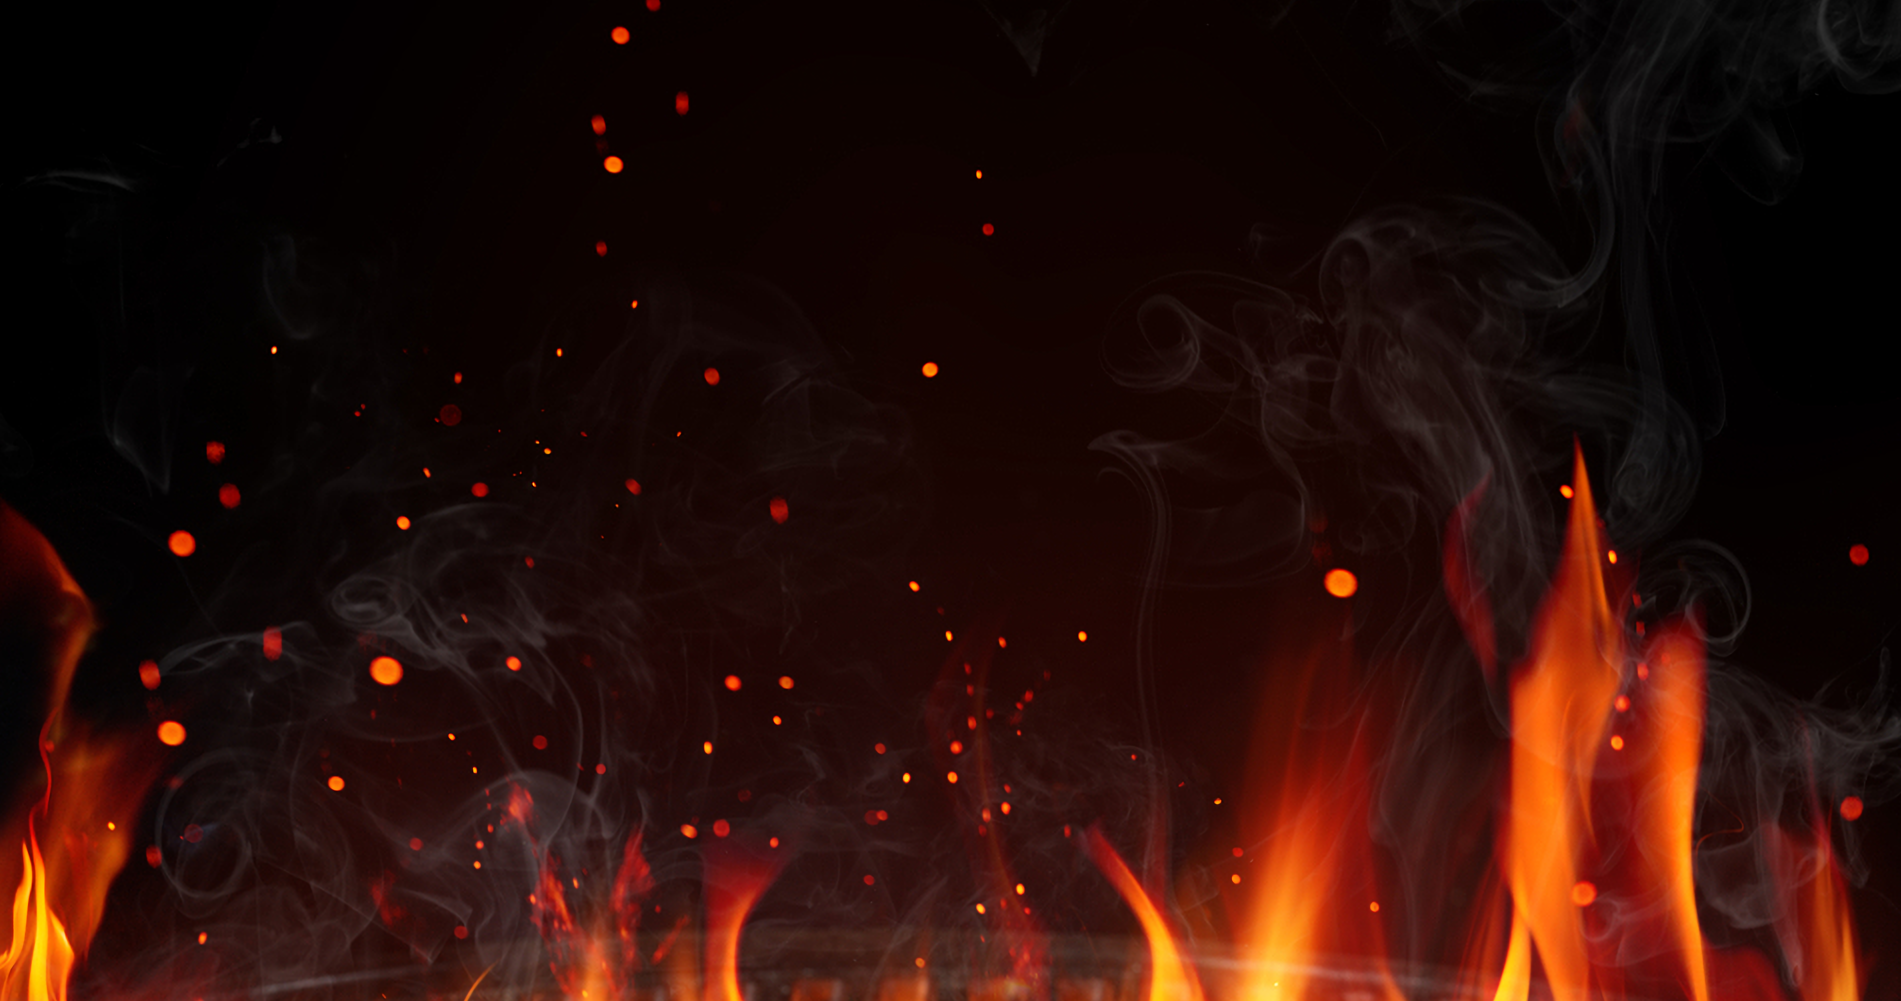
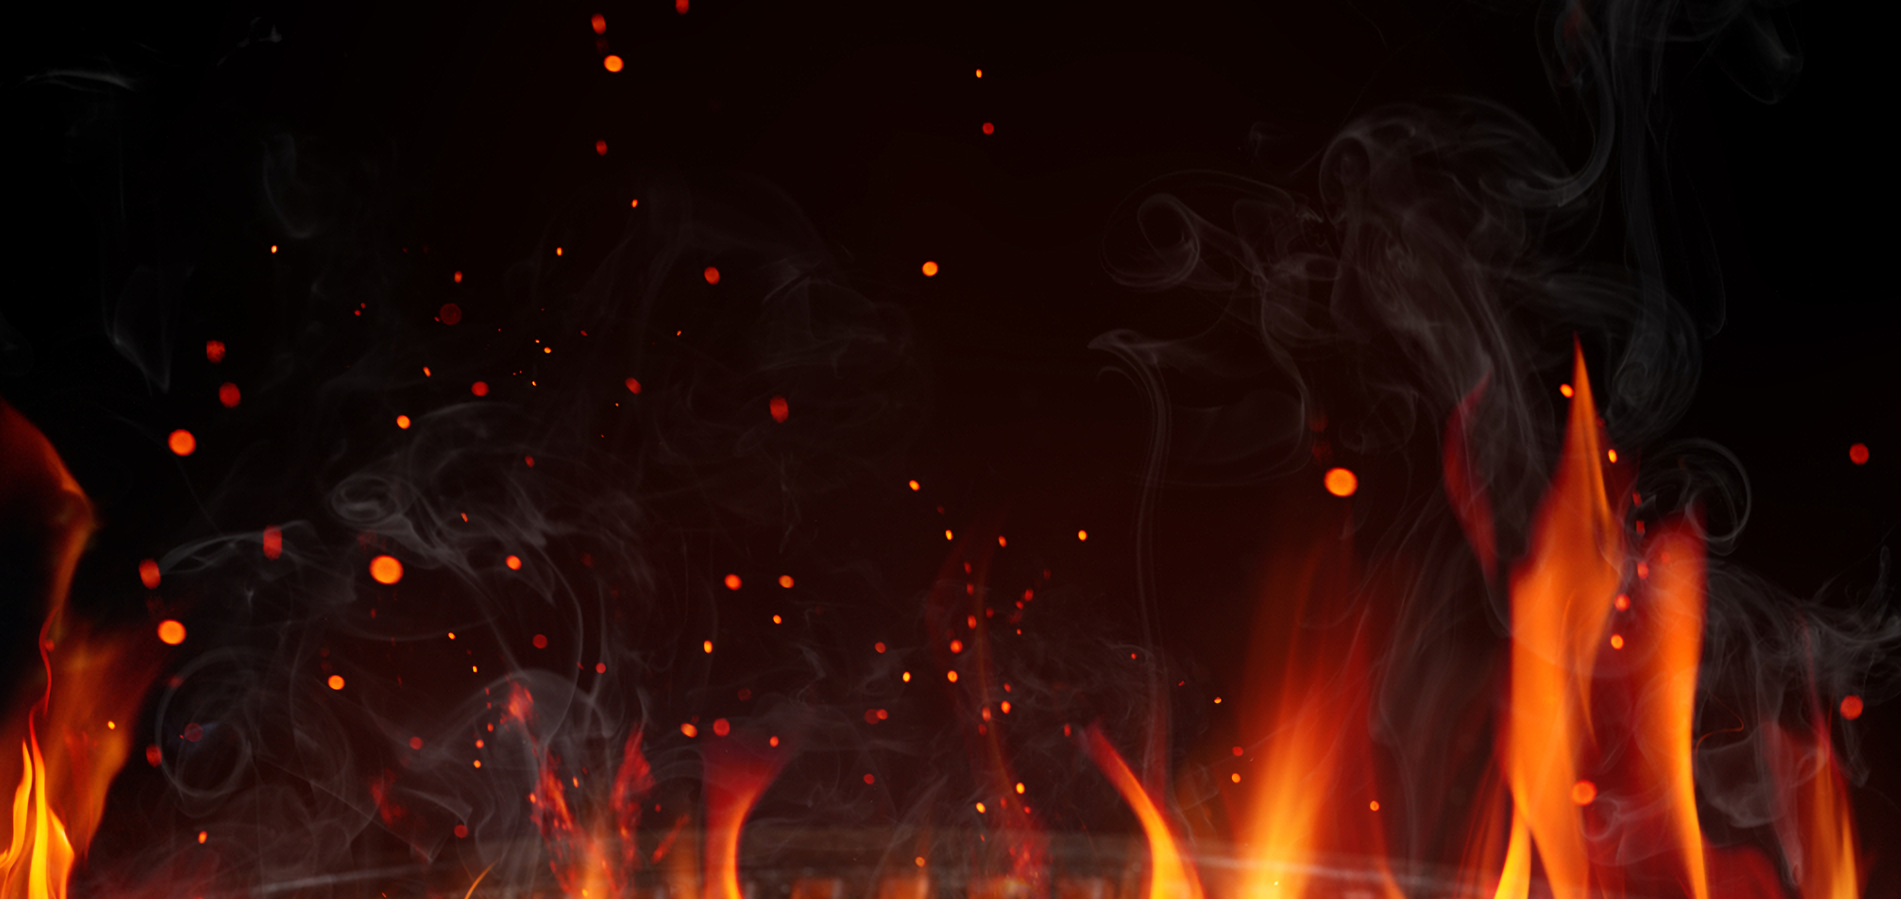
more bg

diff --git a/common/styles.css b/common/styles.css
@@ -769,7 +769,7 @@ section {
 
 /* BACKGROUND COLOR*/
 
-.bg-seller{ background: url(../img/2x/fire-cropped.png)  no-repeat; background-size: cover; position: relative; z-index: 1; }
+.bg-seller{ background: url(../img/2x/fire-cropped.png)  no-repeat; background-size: ; position: relative; z-index: 1; }
 .bg-seller2{ background: url(../img/2x/bg.png)  no-repeat; background-size: cover; position: relative; z-index: 1; }
 
 /* .bg-seller:after{ content: ""; position: absolute; top: 0; left: 0; right: 0; bottom: 0; z-index: -1; } */
